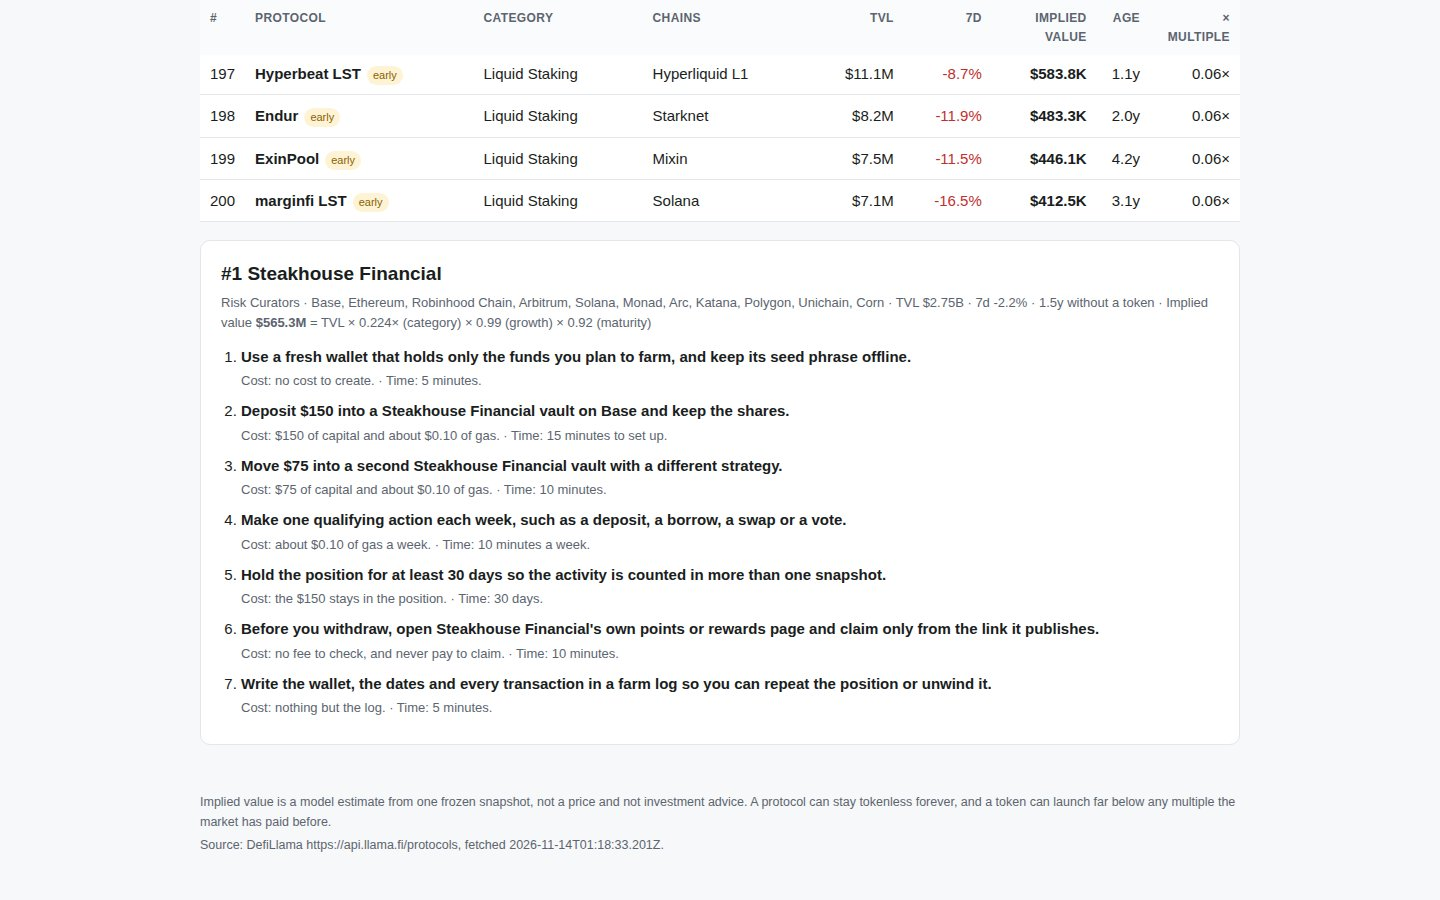
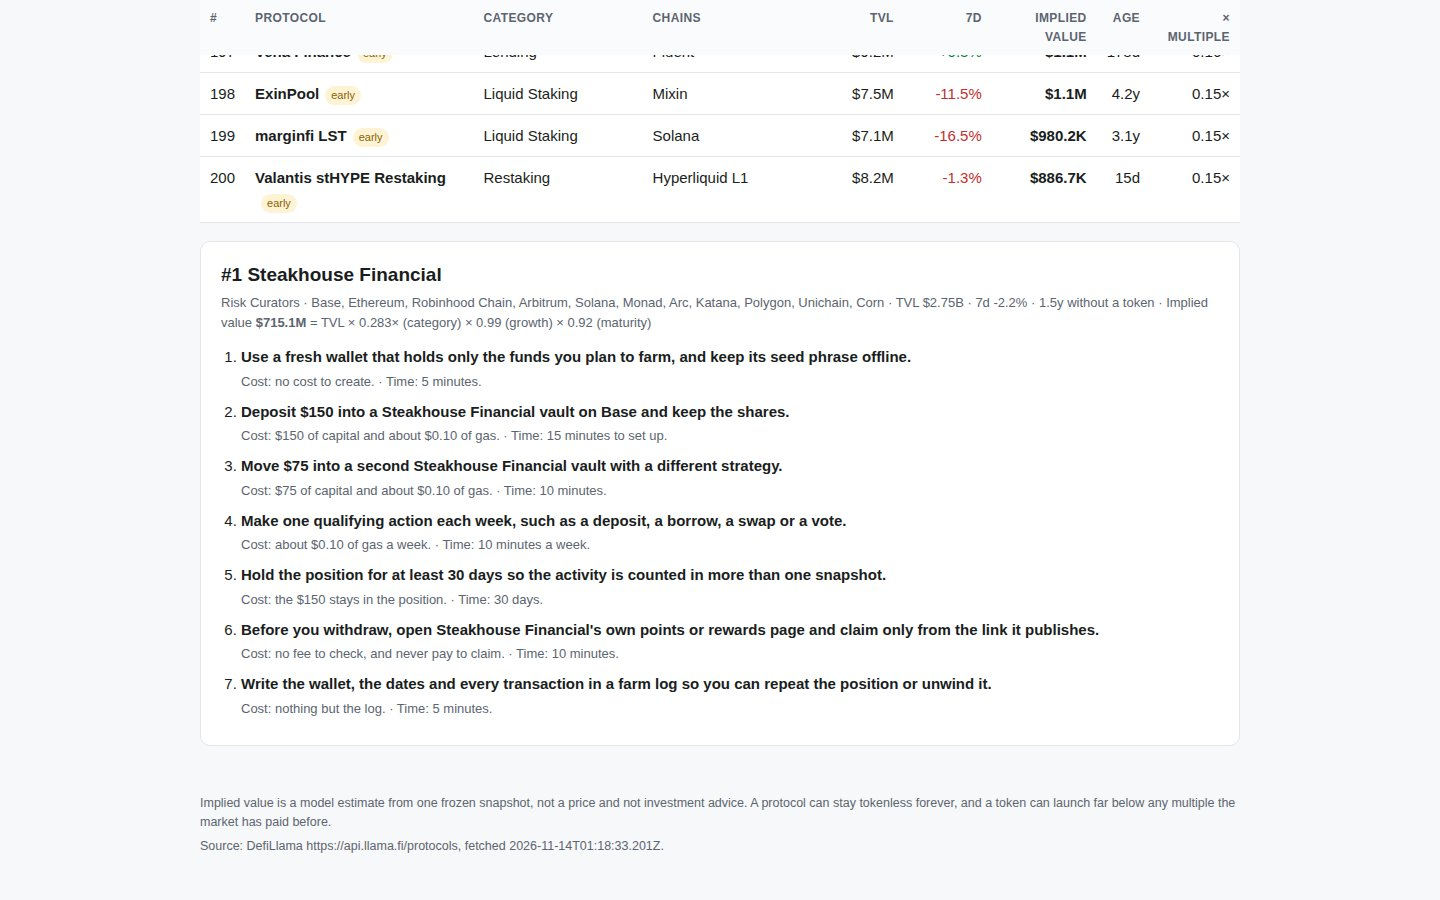
token-radar-01: radar-4 model, outlier filter + shrinkage

diff --git a/lib/model.ts b/lib/model.ts
@@ -1,4 +1,4 @@
-// Token radar, model v3 ("radar-3").
+// Token radar, model v4 ("radar-4").
 //
 // The board ranks pre-token protocols by an implied token value derived entirely
 // from the sealed snapshot — no protocol name is ever special-cased, and every
@@ -7,19 +7,29 @@
 //   implied = TVL x category multiple x growth multiplier x maturity multiplier
 //
 // Category multiple: the geometric mean market-cap/TVL of the live-token
-// protocols in the same category, computed from this snapshot at run time.
-// The market prices a DEX token at roughly 0.39x its TVL and a liquid-staking
-// token at roughly 0.06x; a flat multiple would pretend every business is worth
-// the same per dollar locked, which the snapshot itself refutes. The ratios are
+// protocols in the same category, computed from this snapshot at run time,
+// with two guards radar-3 lacked. First, an outlier filter: live ratios
+// outside [0.01, 5] never enter a category's pool (the snapshot holds a
+// 400x bridge and several 0.001x shells; one of those in a five-sample
+// category bends its multiple by a factor of two). Second, shrinkage: the
+// category's mean log ratio is pulled toward the overall mean log ratio with
+// weight k = 10, so a category with two live samples is mostly the market's
+// overall pricing and a category with twenty is mostly its own. The market
+// prices a DEX token at roughly 0.39x its TVL and a liquid-staking token at
+// roughly 0.06x; a flat multiple would pretend every business is worth the
+// same per dollar locked, which the snapshot itself refutes. The ratios are
 // log-normal — a few giants stretch the arithmetic mean, and a single order
 // statistic (the median) is noisy at five to fifteen samples per category — so
 // the mean of the log ratios is the centre a multiplicative model should use.
 // Backtested on the snapshot's 119 live-token protocols (leave-one-out, never
-// scoring a protocol against a multiple it contributed to): the geometric mean
-// beats the median on mean absolute log error (1.80 vs 1.87), median absolute
-// log error (1.60 vs 1.66) and the share of predictions within 2x of the true
-// market cap (31% vs 23%). Categories with fewer than five live samples fall
-// back to the overall geometric mean across all live protocols.
+// scoring a protocol against a multiple it contributed to): radar-4 beats
+// radar-3 on mean absolute log error (1.75 vs 1.80), median absolute log error
+// (1.60 vs 1.61) and Spearman rank correlation (0.41 vs 0.38), wins mean log
+// error and Spearman in every split (high/low TVL, even/odd), and wins mean
+// log error on the large protocols the board's top is made of (1.97 vs 2.02).
+// The one cost: the share of predictions within 2x of the true market cap
+// falls to 26% from 29% — shrinkage trades a few near-hits for fewer wild
+// misses, which is the right trade for a ranking.
 //   growth: the protocol's 7-day TVL change, clamped to [-40, +60] per cent
 //   (the snapshot's largest 7-day jump is over +4,400%, a single-pool artefact
 //   that must not decide a ranking), weighted at 0.35.
@@ -65,7 +75,11 @@ export interface ModelConstants {
   maturity_range: number;
   maturity_days: number;
   unknown_age_days: number;
-  min_category_samples: number;
+  /** Shrinkage weight: the category's mean log ratio counts as `shrinkage_k` pseudo-samples of the overall mean. */
+  shrinkage_k: number;
+  /** Live mcap/TVL ratios outside this band never enter a category's pool. */
+  ratio_filter_lo: number;
+  ratio_filter_hi: number;
 }
 
 export const MODEL: ModelConstants = {
@@ -76,11 +90,13 @@ export const MODEL: ModelConstants = {
   maturity_range: 0.3,
   maturity_days: 730,
   unknown_age_days: 365,
-  min_category_samples: 5,
+  shrinkage_k: 10,
+  ratio_filter_lo: 0.01,
+  ratio_filter_hi: 5,
 };
 
 /** The model's version label: the dashboard names it and the rules quote it. */
-export const MODEL_VERSION = 'radar-3';
+export const MODEL_VERSION = 'radar-4';
 
 /** How many pre-token protocols below the watchlist floor the early radar carries, by TVL. */
 export const EARLY_ROWS = 160;
@@ -217,9 +233,11 @@ const geoMean = (xs: number[]): number => Math.exp(xs.reduce((sum, x) => sum + M
 
 /**
  * The market's own pricing per category: for every category, the geometric
- * mean market-cap/TVL of the live-token protocols in it. Categories with too
- * few live samples use the overall geometric mean. Computed from the snapshot
- * at run time.
+ * mean market-cap/TVL of the live-token protocols in it, after dropping
+ * outlier ratios outside [ratio_filter_lo, ratio_filter_hi] and shrinking
+ * the category's mean log ratio toward the overall mean log ratio with
+ * weight `shrinkage_k`. A category with no surviving sample uses the overall
+ * geometric mean. Computed from the snapshot at run time.
  */
 export function categoryMultiples(snapshot: Snapshot, model: ModelConstants = MODEL): { byCategory: Map<string, number>; samples: Map<string, number>; overall: number } {
   const byCat = new Map<string, number[]>();
@@ -229,17 +247,21 @@ export function categoryMultiples(snapshot: Snapshot, model: ModelConstants = MO
     const ratio = p.mcap_usd / p.tvl_usd;
     if (!Number.isFinite(ratio) || ratio <= 0) continue;
     all.push(ratio);
+    if (ratio < model.ratio_filter_lo || ratio > model.ratio_filter_hi) continue;
     const key = p.category ?? 'Uncategorized';
     const list = byCat.get(key) ?? [];
     list.push(ratio);
     byCat.set(key, list);
   }
   const overall = all.length > 0 ? geoMean(all) : 0.25;
+  const overallLog = Math.log(overall);
   const byCategory = new Map<string, number>();
   const samples = new Map<string, number>();
   for (const [key, list] of byCat) {
     samples.set(key, list.length);
-    byCategory.set(key, list.length >= model.min_category_samples ? geoMean(list) : overall);
+    const catLog = list.reduce((sum, r) => sum + Math.log(r), 0) / list.length;
+    const shrunk = (list.length * catLog + model.shrinkage_k * overallLog) / (list.length + model.shrinkage_k);
+    byCategory.set(key, Math.exp(shrunk));
   }
   return { byCategory, samples, overall };
 }

diff --git a/dashboard/app.js b/dashboard/app.js
@@ -38,7 +38,7 @@
     '<h2>How a row is valued — model ' + esc(R.model_version) + '</h2>' +
     '<p><code>implied value = TVL × category multiple × growth × maturity</code></p>' +
     '<p>The category multiple is the geometric mean market-cap / TVL of the live-token protocols in the same category, computed from this snapshot. ' +
-    'Categories with fewer than ' + m.min_category_samples + ' live samples use the overall geometric mean of ' + R.overall_multiple.toFixed(3) + '×. ' +
+    'Ratios outside [' + m.ratio_filter_lo + ', ' + m.ratio_filter_hi + '] never enter a category pool, and each category multiple is shrunk toward the overall geometric mean of ' + R.overall_multiple.toFixed(3) + '× with weight ' + m.shrinkage_k + '. ' +
     'Growth is the 7-day TVL change, clamped to [' + m.growth_floor + ', +' + m.growth_cap + ']% and weighted ' + m.growth_weight + '. ' +
     'Maturity rises from ' + m.maturity_floor + ' for a new protocol to ' + (m.maturity_floor + m.maturity_range) + ' at ' + m.maturity_days + ' days without a token; an unknown listing date counts as ' + m.unknown_age_days + ' days.</p>' +
     '<table><thead><tr><th>Category</th><th class="num">Multiple</th><th class="num">Samples</th></tr></thead><tbody>' + multRows + '</tbody></table>';

diff --git a/main.ts b/main.ts
@@ -1,7 +1,7 @@
 // Token radar entry (Node 22, standard library only).
 //
 // Reads the sealed snapshot from /input/snapshot.json (or --input <file|dir>),
-// scores every pre-token protocol with the radar-3 model in lib/model.ts, writes
+// scores every pre-token protocol with the radar-4 model in lib/model.ts, writes
 // the ranked board to /output/board.json, and copies this repository's dashboard/
 // and screenshots/ to /output. Last, it writes /output/dossier.json, the summary
 // the judge reads, with the vendored make.fun library.

diff --git a/README.md b/README.md
@@ -26,7 +26,7 @@ A static dashboard that scores every pre-token protocol in the sealed snapshot a
 implied value = TVL × category multiple × growth × maturity
 ```
 
-- **Category multiple** — the geometric mean market-cap / TVL of the live-token protocols in the same category, computed from this snapshot at runtime. Categories with fewer than 5 live samples fall back to the overall geometric mean (0.224×). Backtested leave-one-out on the snapshot's 119 live-token protocols: geometric mean beats the median on mean absolute log error (1.80 vs 1.87), median absolute log error (1.60 vs 1.66) and predictions within 2× of the true market cap (31% vs 23%).
+- **Category multiple** — the geometric mean market-cap / TVL of the live-token protocols in the same category, computed from this snapshot at runtime, after dropping outlier ratios outside [0.01, 5] and shrinking each category's mean log ratio toward the overall geometric mean (0.224×) with weight 10. Backtested leave-one-out on the snapshot's 119 live-token protocols: this beats the plain geometric mean on mean absolute log error (1.75 vs 1.80), median absolute log error (1.60 vs 1.61) and Spearman rank correlation (0.41 vs 0.38), and wins mean log error and Spearman in every split (high/low TVL, even/odd).
 - **Growth** — the 7-day TVL change, clamped to [-40%, +60%] and weighted 0.35, so one outlier week cannot dominate the ranking.
 - **Maturity** — days without a token, rising from 0.7 for a new protocol to 1.0 at 730 days; an unknown listing date counts as 365 days.
 
@@ -36,10 +36,10 @@ The board ranks 200 protocols: the 40-protocol watchlist first, then 160 early f
 
 | # | Protocol | TVL | Implied value |
 |---|----------|-----|---------------|
-| 1 | Steakhouse Financial | $2.75B | $539.4M |
-| 2 | Gauntlet | $1.58B | $317.5M |
-| 3 | Veda | $1.56B | $311.5M |
-| 4 | USDD | $1.06B | $212.6M |
+| 1 | Steakhouse Financial | $2.75B | $715.1M |
+| 2 | Gauntlet | $1.58B | $421.0M |
+| 3 | Veda | $1.56B | $261.0M |
+| 4 | USDD | $1.06B | $219.3M |
 
 ## Run it
 
@@ -64,7 +64,7 @@ The three screenshots in this repository are real JPEGs, captured from the dashb
 | File | What it is |
 |---|---|
 | `main.ts` | Entry point: reads the snapshot, scores, writes the output. |
-| `lib/model.ts` | The radar-3 model, the board builder and the dashboard data. |
+| `lib/model.ts` | The radar-4 model, the board builder and the dashboard data. |
 | `vendor/makefun-board.ts` | The official make.fun board library, copied verbatim. |
 | `dashboard/` | The static page: `index.html`, `app.css`, `app.js`. |
 | `screenshots/` | The three views, real JPEGs (see above). |
